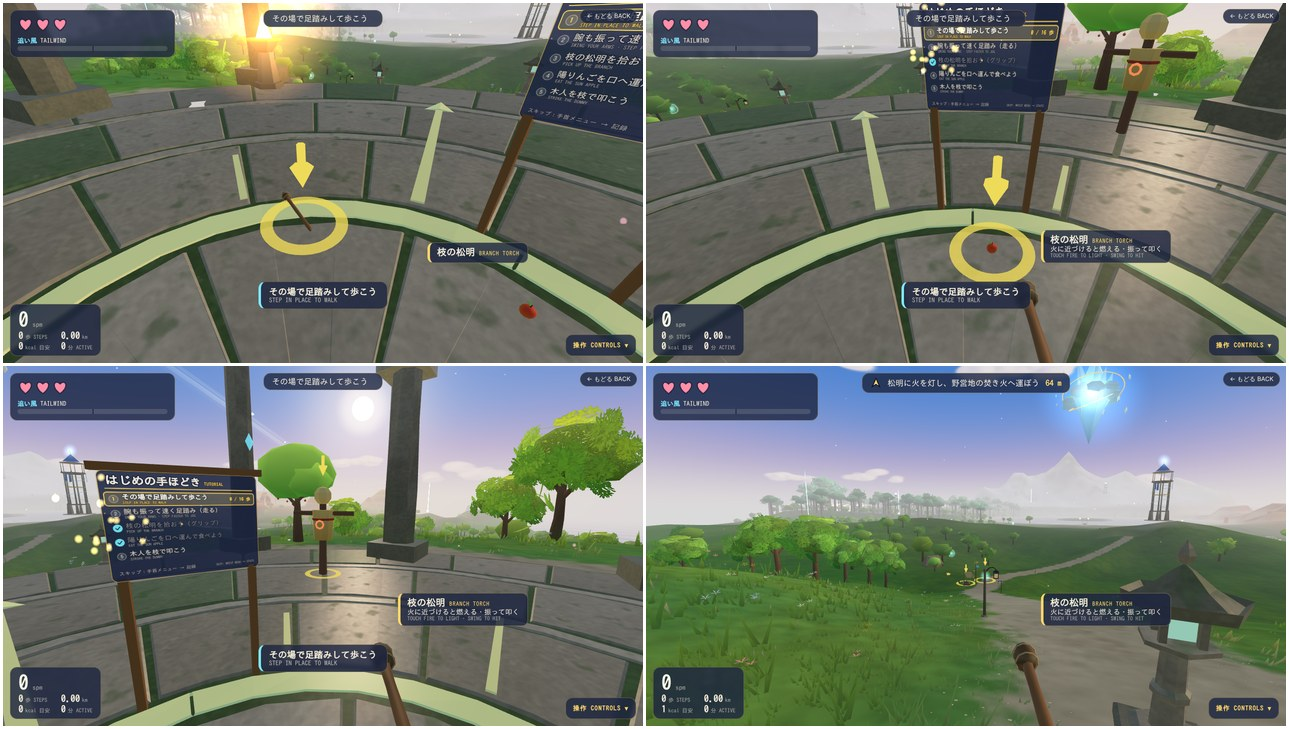
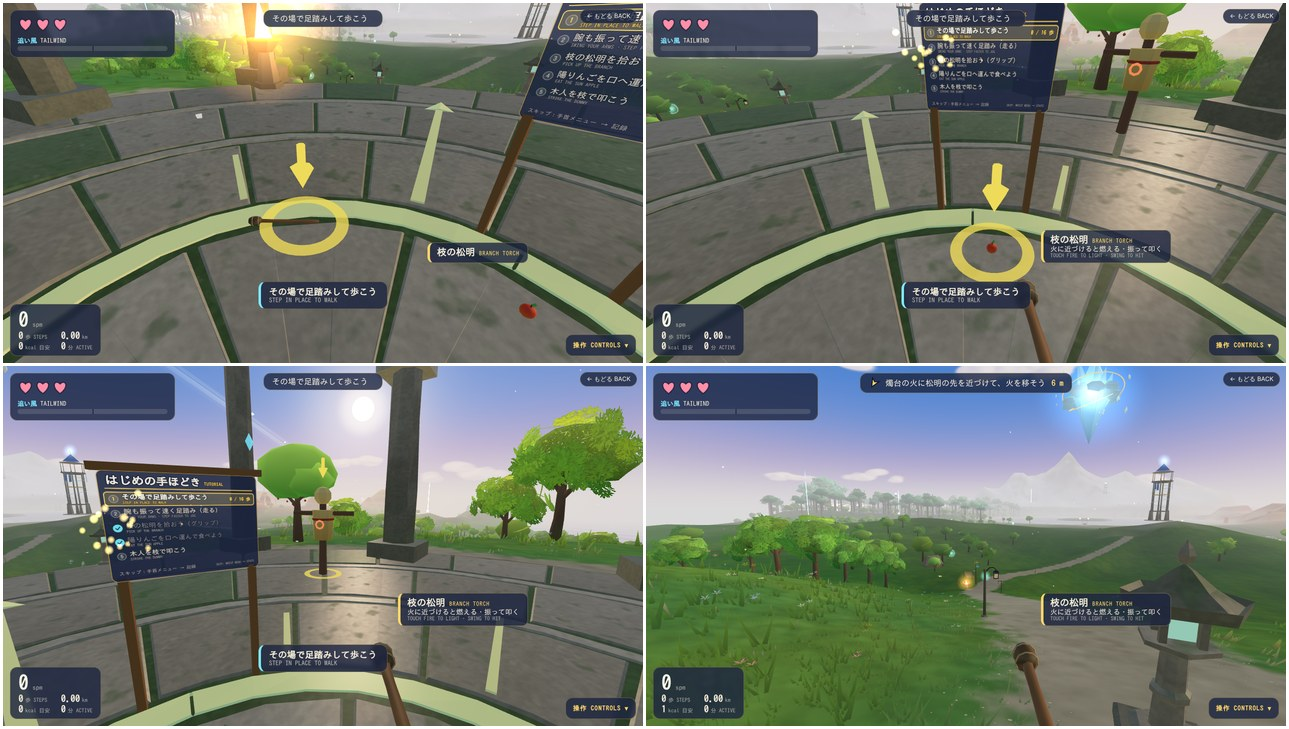
aetherwalk: checkpoint of campfire guidance and pedestal placement (in progress)
Claude-Session: https://claude.ai/code/session_01H98kDx4BzyB7H16AujXYj1

diff --git a/aetherwalk/js/game/quest.js b/aetherwalk/js/game/quest.js
@@ -20,11 +20,24 @@ export const TUT = [
 ];
 // stage 1, shown on the tutorial board as the start of the main quest
 export const MAIN1 = [
-  { id: 'm_light', text: '石舞台の燭台で松明に火を移す', en: 'LIGHT THE BRANCH AT THE BRAZIER' },
+  { id: 'm_light', text: '燭台の火を松明に移す', en: 'LIGHT THE BRANCH AT A BRAZIER' },
   { id: 'm_camp', text: '野営地の焚き火に火を灯す', en: 'LIGHT THE CAMPFIRE' },
   { id: 'm_sword', text: '台座の剣を握って手に取る', en: 'GRIP THE SWORD ON THE PEDESTAL' },
 ];
 const REGIONS = ['meadow', 'forest', 'canyon', 'peaks'];
+// stage 1, lighting the camp: what to do right now (board, objective line, toast and the gold markers)
+export const CAMP_HINT = {
+  torch: ['枝の松明を持とう', 'PICK UP THE BRANCH TORCH'],
+  draw: ['枝の松明を手に持とう（ホルスターから取り出す）', 'TAKE THE BRANCH TORCH OUT OF ITS HOLSTER'],
+  drawLit: ['燃えている松明をホルスターから取り出そう', 'DRAW THE BURNING TORCH FROM ITS HOLSTER'],
+  light: ['燭台の火に松明の先を近づけて、火を移そう', 'HOLD THE TORCH TIP IN THE BRAZIER FLAME'],
+  carry: ['火のついた松明を野営地の焚き火へ運ぼう', 'CARRY THE LIT TORCH TO THE CAMPFIRE'],
+  touch: ['薪に松明を近づけて火をつけよう', 'TOUCH THE FIREWOOD WITH THE FLAME'],
+  relight: ['松明の火が消えている — 燭台で付け直そう', 'YOUR TORCH IS OUT · RELIGHT IT AT A BRAZIER'],
+  sword: ['台座の剣を握って手に取ろう', 'GRIP THE SWORD ON THE PEDESTAL'],
+};
+const OUT_WHY = { burnout: ['燃え尽きた', 'BURNED OUT'], water: ['水で消えた', 'DOUSED BY WATER'], wind: ['風で消えた', 'BLOWN OUT BY THE WIND'], stowed: ['バッグにしまうと消える（ホルスターなら燃えたまま）', 'THE BAG PUTS IT OUT · A HOLSTER KEEPS IT LIT'] };
+const CAMP_NEAR = 4, CAMP_NEAR_OUT = 5, CAMP_AT = 10;   // m: the touch phase (with hysteresis), "at the campfire"
 
 export function createQuest(ctx, G) {
   const _p = new THREE.Vector3(), _a = new THREE.Vector3(), _b = new THREE.Vector3();
@@ -35,6 +48,10 @@ export function createQuest(ctx, G) {
   const targets = [0, 1, 2, 3].map(() => ({ x: 0, y: 0, z: 0, primary: false, kind: '' }));
   const _t = new THREE.Vector3();
   let startBrazier;
+  // stage-1 phase: a torch / draw / light / carry / touch / relight / sword, or '' (not stage 1)
+  const campHint = { phase: '', text: '', en: '', dist: 0, fire: null };
+  let campNear = false, campPhasePrev = '', campLitT = -1;
+  let torchBurning = false;   // the player's torch is lit somewhere (in a hand, a holster, or put down nearby)
   const Q = {
     stage: 0, objective: null,
     towers: { meadow: false, forest: false, canyon: false, peaks: false },
@@ -106,12 +123,14 @@ export function createQuest(ctx, G) {
     mainDone(i) {
       const camp = G.checkpoints && G.checkpoints.byId('camp_meadow');
       const lit = !!(camp && camp.lit);
-      if (i === 0) return lit || torchLit();
+      if (i === 0) return lit || torchLit() || torchBurning;
       if (i === 1) return lit;
       return G.inventory.has('sword');
     },
     torchLit: () => torchLit(),
     guideTargets,
+    /** stage-1 "what now" for the board: { phase, text, en, dist (m to the campfire), fire (brazier) } */
+    get campHint() { return campHint; },
     serialize() {
       return { stage: Q.stage, towers: { ...Q.towers }, shrines: JSON.parse(JSON.stringify(Q.shrines)), seeds: Q.seeds.slice(),
         chests: Q.chests.slice(), props: JSON.parse(JSON.stringify(Q.props)), flags: { ...Q.flags, killed: { ...(G.enemies ? G.enemies.killedForever : {}) }, gather: G.pickups ? G.pickups.serializeGather() : {} } };
@@ -180,10 +199,12 @@ export function createQuest(ctx, G) {
       }
       case 1: {
         const c = L('camp_meadow');
-        const camp = G.checkpoints && G.checkpoints.byId('camp_meadow');
+        const ph = updateCampHint();
         const ped = G.pickups && G.pickups.pedestalChest();
-        if (camp && camp.lit && ped && !G.inventory.has('sword')) setObjective('pedestal', '台座の剣を握って手に取ろう', ped.x, ped.z);
-        else setObjective('camp_meadow', '松明に火を灯し、野営地の焚き火へ運ぼう', c ? c.x : _p.x, c ? c.z : _p.z);
+        if (ph === 'sword' && ped) setObjective('pedestal', campHint.text, ped.x, ped.z);
+        else if ((ph === 'light' || ph === 'relight' || ph === 'draw') && campHint.fire) setObjective('camp_' + ph, campHint.text, campHint.fire.x, campHint.fire.z);
+        else if (ph === 'torch' && tutItems.torch && onGround(tutItems.torch)) setObjective('camp_torch', campHint.text, tutItems.torch.pos.x, tutItems.torch.pos.z);
+        else setObjective('camp_' + (ph || 'meadow'), campHint.text || '松明に火を灯し、野営地の焚き火へ運ぼう', c ? c.x : _p.x, c ? c.z : _p.z);
         break;
       }
       case 2: { const t = L('tower_meadow'); setObjective('tower_meadow', '風見の鐘塔の頂上で鐘を鳴らそう', t ? t.x : _p.x, t ? t.z : _p.z); break; }
@@ -251,6 +272,56 @@ export function createQuest(ctx, G) {
     tutClosed = true;
     emit(ctx, 'tutorial:done', { skipped: !!skipped });
   }
+  function heldTorch() {
+    const h = ctx.items && ctx.items.held;
+    if (!h) return null;
+    for (const k of ['right', 'left']) { const i = h[k]; if (i && i.id === 'torch') return i; }
+    return null;
+  }
+  /** a torch lying in the world to point at (the lesson's branch first, else the nearest within 60 m) */
+  function torchOnGround() {
+    if (onGround(tutItems.torch)) return tutItems.torch;
+    const w = ctx.items && ctx.items.worldItems;
+    if (!w) return null;
+    let best = null, bd = 60;
+    for (const i of w) { if (i.id !== 'torch') continue; const d = Math.hypot(i.pos.x - _p.x, i.pos.z - _p.z); if (d < bd) { bd = d; best = i; } }
+    return best;
+  }
+  function campFire(camp, out) {
+    anchorOf(camp.prop, 'fire', out);
+    if (!camp.prop) out.set(camp.x, heightAt(ctx, camp.x, camp.z) + 0.5, camp.z);
+    return out;
+  }
+  /** work out the stage-1 phase into campHint (and return it) — called from refreshObjective (≈2 Hz) */
+  function updateCampHint() {
+    const camp = G.checkpoints && G.checkpoints.byId('camp_meadow');
+    let ph = '';
+    campHint.fire = null; campHint.dist = 0;
+    if (Q.stage === 1 && camp) {
+      playerPos(ctx, _p);
+      const d = Math.hypot(_p.x - camp.x, _p.z - camp.z);
+      campHint.dist = d;
+      if (camp.lit) { campNear = false; ph = G.inventory.has('sword') ? '' : 'sword'; }
+      else {
+        const t = heldTorch();
+        if (t && t.state && t.state.lit) { campNear = d < (campNear ? CAMP_NEAR_OUT : CAMP_NEAR); ph = campNear ? 'touch' : 'carry'; }
+        else {
+          campNear = false;
+          const g = torchOnGround();
+          if (g && g.state && g.state.lit && Math.hypot(g.pos.x - _p.x, g.pos.z - _p.z) < 15) ph = 'torch';   // put down still burning: pick it up
+          else if (!t && torchBurning && G.inventory.has('torch')) ph = 'drawLit';                       // burning in its holster
+          else if (d < CAMP_AT) ph = 'relight';
+          else if (t) ph = 'light';
+          else ph = g || !G.inventory.has('torch') ? 'torch' : 'draw';
+          if (ph === 'light' || ph === 'relight' || ph === 'draw') campHint.fire = G.checkpoints.nearestFire ? G.checkpoints.nearestFire(_p.x, _p.z) : null;
+        }
+      }
+    }
+    campHint.phase = ph;
+    const h = CAMP_HINT[ph];
+    campHint.text = h ? h[0] : ''; campHint.en = h ? h[1] : '';
+    return ph;
+  }
   function torchLit() {
     const h = ctx.items && ctx.items.held;
     if (!h) return false;
@@ -276,24 +347,26 @@ export function createQuest(ctx, G) {
         if (d) n = put(n, d.c.x, d.c.y + 0.5, d.c.z, true, 'dummy');
       }
     } else if (Q.stage === 1) {
+      // one marker per phase: the branch, the burning brazier, the campfire (a ring at the bowl up close), the pedestal
       const camp = G.checkpoints && G.checkpoints.byId('camp_meadow');
-      const lit = !!(camp && camp.lit);
-      let primaryUsed = false;
-      if (!lit && !torchLit()) {
-        if (startBrazier === undefined) startBrazier = (G.checkpoints && G.checkpoints.braziers.find((q) => q.id === 'brazier_start')) || null;
-        const b = startBrazier && startBrazier.lit ? startBrazier : null;
-        if (b) { n = put(n, b.firePos.x, b.firePos.y + 0.25, b.firePos.z, true, 'fire'); primaryUsed = true; }
-      }
-      if (camp && !lit) {
-        anchorOf(camp.prop, 'fire', _t);
-        if (!camp.prop) _t.set(camp.x, heightAt(ctx, camp.x, camp.z) + 0.5, camp.z);
-        n = put(n, _t.x, _t.y + 0.4, _t.z, !primaryUsed, 'fire');
-      }
-      const ped = G.pickups && G.pickups.pedestalChest();
-      if (ped && !G.inventory.has('sword') && !Q.chests.includes(ped.id)) {
-        anchorOf(ped.prop, 'item', _t);
-        if (!ped.prop) _t.set(ped.x, heightAt(ctx, ped.x, ped.z) + 1.2, ped.z);
-        n = put(n, ped.prop ? ped.prop.x : _t.x, _t.y + 0.3, ped.prop ? ped.prop.z : _t.z, n === 0, 'pedestal');
+      const ph = campHint.phase;
+      if (ph === 'torch') {
+        playerPos(ctx, _p);
+        const t = torchOnGround();
+        if (t) n = put(n, t.pos.x, t.pos.y, t.pos.z, true, 'item');
+      } else if ((ph === 'light' || ph === 'relight' || ph === 'draw') && campHint.fire) {
+        const b = campHint.fire;
+        n = put(n, b.firePos.x, b.firePos.y + 0.25, b.firePos.z, true, 'fire');
+      } else if ((ph === 'carry' || ph === 'touch' || ph === 'drawLit') && camp) {
+        campFire(camp, _t);
+        n = ph === 'touch' ? put(n, _t.x, _t.y + 0.3, _t.z, true, 'bowl') : put(n, _t.x, _t.y + 0.4, _t.z, true, 'fire');
+      } else if (ph === 'sword') {
+        const ped = G.pickups && G.pickups.pedestalChest();
+        if (ped && !Q.chests.includes(ped.id)) {
+          anchorOf(ped.prop, 'item', _t);
+          if (!ped.prop) _t.set(ped.x, heightAt(ctx, ped.x, ped.z) + 1.2, ped.z);
+          n = put(n, ped.prop ? ped.prop.x : _t.x, _t.y + 0.3, ped.prop ? ped.prop.z : _t.z, true, 'pedestal');
+        }
       }
     }
     for (let i = 0; i < n; i++) out.push(targets[i]);
@@ -347,6 +420,17 @@ export function createQuest(ctx, G) {
         else if ((camp && camp.lit && !ped) || (!camp && !ped)) { G.inventory.add('sword', 1); Q.setStage(2); }
       }
       refreshObjective();
+      // stage 1: say the new step when it changes (the board and markers follow on their own)
+      const ph = Q.stage === 1 ? campHint.phase : '';
+      if (ph !== campPhasePrev) {
+        if (campPhasePrev && ph && ph !== 'sword' && campLitT < 0) toast(ctx, campHint.text, campHint.en, 'quest', 4500, 'camp');
+        campPhasePrev = ph;
+      }
+    }
+    // after the campfire's title: the next step (the sword)
+    if (campLitT >= 0) {
+      campLitT -= dt;
+      if (campLitT < 0 && Q.stage === 1 && !G.inventory.has('sword')) toast(ctx, CAMP_HINT.sword[0], CAMP_HINT.sword[1], 'quest', 5000, 'camp');
     }
   }
 
@@ -362,7 +446,39 @@ export function createQuest(ctx, G) {
   ctx.events?.on?.('item:consume', (e) => { if (Q.stage === 0 && e && e.itemId && e.itemId.startsWith('apple')) { Q.tut.apple = true; tutAdvance(); } });
   ctx.events?.on?.('dummy:hit', () => { if (Q.stage === 0) { Q.tut.dummy = true; tutAdvance(); } });
   ctx.events?.on?.('hit', (e) => { if (Q.stage === 0 && e && e.targetKind === 'dummy') { Q.tut.dummy = true; tutAdvance(); } });
-  ctx.events?.on?.('fire:lit', (e) => { if (e && e.id === 'camp_meadow' && Q.stage <= 1) { if (Q.stage === 0) { closeTutorial(true); Q.setStage(1); } G.inventory.add('flask', 1); refreshObjective(); } });
+  ctx.events?.on?.('fire:lit', (e) => {
+    if (!e || e.id !== 'camp_meadow' || Q.stage > 1) return;
+    if (Q.stage === 0) { closeTutorial(true); Q.setStage(1); }
+    emit(ctx, 'ui:title', { text: '焚き火が灯った', sub: 'CAMPFIRE LIT · 復活地点' });
+    G.inventory.add('flask', 1);                // its own toast: 水筒 を手に入れた
+    campLitT = 2.6;                             // then: the sword on the pedestal
+    campPhasePrev = 'sword';
+    refreshObjective();
+  });
+  /** is this torch event about the player's own torch? (in a hand, a holster (uid null), or put down within 8 m) */
+  function playersTorch(e) {
+    if (e.uid == null) return true;
+    const it = ctx.items;
+    let inst = null;
+    if (it && it.held) for (const k of ['left', 'right']) if (it.held[k] && it.held[k].uid === e.uid) inst = it.held[k];
+    if (!inst && it && it.worldItems) inst = it.worldItems.find((i) => i.uid === e.uid) || null;
+    if (!inst) return false;
+    if (inst.heldBy) return true;
+    playerPos(ctx, _p);
+    return Math.hypot(inst.pos.x - _p.x, inst.pos.z - _p.z) <= 8;
+  }
+  ctx.events?.on?.('item:ignite', (e) => { if (e && e.itemId === 'torch' && playersTorch(e)) { torchBurning = true; lastObjKey = ''; objT = 0; } });
+  // a torch went out: say why (playtest: stowed it to swing the arms, arrived with a dead torch, no feedback)
+  ctx.events?.on?.('item:extinguish', (e) => {
+    if (!e || e.itemId !== 'torch') return;
+    if (!playersTorch(e)) return;
+    torchBurning = false;
+    const w = OUT_WHY[e.why === 'stow' || !e.why ? 'stowed' : e.why] || ['火が消えた', 'WENT OUT'];
+    const camp = G.checkpoints && G.checkpoints.byId('camp_meadow');
+    const lesson = Q.stage === 1 && camp && !camp.lit;
+    toast(ctx, `松明の火が消えた — ${w[0]}`, `TORCH OUT · ${w[1]}` + (lesson ? ' · RELIGHT AT A BRAZIER' : ''), 'warn', 4500, 'torchout');
+    lastObjKey = ''; objT = 0;                  // re-plan the guidance now
+  });
   // (the waybell item and the X button draw their own ribbon in items/waybell.js; guide() serves the wrist menu)
 
   return Q;

diff --git a/aetherwalk/js/game/checkpoints.js b/aetherwalk/js/game/checkpoints.js
@@ -2,6 +2,10 @@
 import * as THREE from 'three';
 import { heightAt, fx, flash, emit, toast, spawnList, findProp, propsOf, setPropState, anchorOf, playerPos, landmark } from './util.js';
 
+// a fire bowl lights when a flame comes within TOUCH_R of it, or when you stand within CATCH_D holding a lit
+// torch for CATCH_T seconds (playtest: "ran there but it never lit")
+const TOUCH_R = 1.2, CATCH_D = 2.2, CATCH_T = 0.8;
+
 export function createCheckpoints(ctx, G) {
   const lights = [];        // waylights
   const braziers = [];      // generic braziers (shrines may reserve some)
@@ -17,7 +21,7 @@ export function createCheckpoints(ctx, G) {
       for (const w of spawnList(ctx, 'waylights')) {
         const prop = findProp(ctx, 'waylight', w.id, w.x, w.z, 6);
         const lm = landmark(ctx, w.id);
-        lights.push({ id: w.id, x: w.x, z: w.z, prop, lit: false, zone: null, cook: null, nearT: 0,
+        lights.push({ id: w.id, x: w.x, z: w.z, prop, lit: false, zone: null, cook: null, nearT: 0, catchT: 0,
           name: (lm && lm.name) || '風見の灯', firePos: new THREE.Vector3(), cookPos: new THREE.Vector3() });
       }
       braziers.length = 0;
@@ -45,7 +49,8 @@ export function createCheckpoints(ctx, G) {
         emit(ctx, 'fire:lit', { id: entry.id, pos: entry.firePos });
         fx(ctx, 'ember', entry.firePos, { count: 30, speed: 2 });
         flash(ctx, entry.firePos, { color: 0xffb347, size: 3, life: 0.5 });
-        toast(ctx, `${entry.name}に火が灯った`, 'WAYLIGHT LIT · 復活地点', 'quest', 3500);
+        const lesson = entry.id === 'camp_meadow' && G.quest && G.quest.stage <= 1;
+        if (!lesson) toast(ctx, `${entry.name}に火が灯った`, 'WAYLIGHT LIT · 復活地点', 'quest', 3500);
         C.setCheckpoint(entry.id);
       }
     },
@@ -69,6 +74,16 @@ export function createCheckpoints(ctx, G) {
     /** braziers that no shrine drives burn from the start: fire for torches and arrows around the island */
     lightFree() { for (const b of braziers) if (!b.reserved && !b.lit) C.lightBrazier(b, true); },
     byId(id) { return lights.find((l) => l.id === id) || null; },
+    /** the nearest burning brazier to (x, z) — where a dead torch can be relit — or null */
+    nearestFire(x, z) {
+      let best = null, bd = Infinity;
+      for (const b of braziers) {
+        if (!b.lit) continue;
+        const d = Math.hypot(b.x - x, b.z - z);
+        if (d < bd) { bd = d; best = b; }
+      }
+      return best;
+    },
     nearLit(maxD = 5) {
       playerPos(ctx, _p);
       let best = null, bd = maxD;
@@ -138,7 +153,14 @@ export function createCheckpoints(ctx, G) {
         anchorOf(l.prop, 'fire', _a);
         if (!l.prop) _a.set(l.x, heightAt(ctx, l.x, l.z) + 0.5, l.z);
         _a.y += 0.3;
-        if (foreignFire(_a, 0.75)) { C.light(l); continue; }
+        if (foreignFire(_a, TOUCH_R)) { l.catchT = 0; C.light(l); continue; }
+        // standing right by it with a burning torch in either hand: it catches after a moment (crackling)
+        if (d < CATCH_D && G.quest && G.quest.torchLit()) {
+          if (l.catchT === 0) emit(ctx, 'fire:catching', { id: l.id, pos: _a.clone() });
+          l.catchT += 0.2;
+          fx(ctx, 'ember', _a, { count: 3, speed: 0.8 });
+          if (l.catchT >= CATCH_T - 1e-6) { l.catchT = 0; C.light(l); continue; }
+        } else l.catchT = 0;
         // the other camps catch the wind when you stand by them (the first one is the torch lesson)
         const tutorial = l.id === 'camp_meadow' && stage <= 1;
         if (!tutorial && d < 3.2) { l.nearT += 0.2; if (l.nearT > 1.5) C.light(l); }

diff --git a/aetherwalk/js/ui/tutorial.js b/aetherwalk/js/ui/tutorial.js
@@ -146,7 +146,10 @@ export function createTutorial(ctx, S, ui) {
     frame('旅のはじまり', 'MAIN QUEST');
     let cur = 0;
     while (cur < 3 && Q.mainDone(cur)) cur++;
-    text(g, '野営地の焚き火に火を灯し、台座の剣を手に入れよう', 48, 174, { size: 38, weight: 700, color: C.gold, maxW: W - 96 });
+    // the step to do right now (phase-aware: take / light / carry (with the distance) / touch / relight / sword)
+    const h = Q.campHint;
+    const now = h && h.text ? h.text + (h.phase === 'carry' ? `（あと ${Math.max(1, Math.round(h.dist))} m）` : '') : '野営地の焚き火に火を灯し、台座の剣を手に入れよう';
+    text(g, '▶ ' + now, 48, 174, { size: 38, weight: 800, color: C.gold, maxW: W - 96 });
     for (let i = 0; i < 3; i++) {
       const y = 200 + i * 104, isDone = Q.mainDone(i), isCur = i === cur;
       if (isCur) { roundRect(g, 30, y + 6, W - 60, 92, 18); g.fillStyle = 'rgba(255,215,106,0.2)'; g.fill(); g.lineWidth = 4; g.strokeStyle = C.gold; g.stroke(); }
@@ -164,7 +167,7 @@ export function createTutorial(ctx, S, ui) {
   }
   function signature(Q) {
     if (mode === 'tutorial') return `t|${Q.tutIndex()}|${Math.min(16, Q.tut.walk)}|${Math.min(10, Q.tut.run)}|${Q.tutDone(2)}${Q.tutDone(3)}${Q.tutDone(4)}`;
-    if (mode === 'main') return `m|${Q.mainDone(0)}${Q.mainDone(1)}${Q.mainDone(2)}`;
+    if (mode === 'main') { const h = Q.campHint || {}; return `m|${Q.mainDone(0)}${Q.mainDone(1)}${Q.mainDone(2)}|${h.phase}|${h.phase === 'carry' ? Math.round(h.dist / 5) : 0}`; }
     return '';
   }
   function setMode(m) { if (mode === m) return; pendingMode = m; fadeTo = 0; }
@@ -229,14 +232,22 @@ export function createTutorial(ctx, S, ui) {
           _s.setScalar(k);
           _m.compose(_p.set(tg.x, tg.y + 0.42 * k + bob, tg.z), _q, _s);
           arrows.setMatrixAt(n, _m);
-          // the floor under it (terrain or the stone stage / a platform)
-          let gy = tg.y - 0.15;
-          try { gy = ctx.world.groundAt ? ctx.world.groundAt(tg.x, tg.z, tg.y + 0.3) : ctx.world.heightAt(tg.x, tg.z); } catch (e) { /* stub */ }
-          if (!Number.isFinite(gy) || gy > tg.y) gy = tg.y - 0.15;
-          const rr = (tg.kind === 'fire' ? 0.75 : tg.kind === 'pedestal' ? 0.85 : 0.38) * (1 + 0.08 * Math.sin(t * 3 + n)) * Math.max(1, k * 0.6);
+          let ry, rr;
+          if (tg.kind === 'bowl') {
+            // up close with a burning torch: a pulsing ring hovering at the fire bowl's rim — "touch here"
+            ry = tg.y - 0.18;
+            rr = 0.62 * (1 + 0.14 * Math.sin(t * 6));
+          } else {
+            // the floor under it (terrain or the stone stage / a platform)
+            let gy = tg.y - 0.15;
+            try { gy = ctx.world.groundAt ? ctx.world.groundAt(tg.x, tg.z, tg.y + 0.3) : ctx.world.heightAt(tg.x, tg.z); } catch (e) { /* stub */ }
+            if (!Number.isFinite(gy) || gy > tg.y) gy = tg.y - 0.15;
+            ry = gy + 0.035;
+            rr = (tg.kind === 'fire' ? 0.75 : tg.kind === 'pedestal' ? 0.85 : 0.38) * (1 + 0.08 * Math.sin(t * 3 + n)) * Math.max(1, k * 0.6);
+          }
           _s.set(rr, 1, rr);
           _q.identity();
-          _m.compose(_h.set(tg.x, gy + 0.035, tg.z), _q, _s);
+          _m.compose(_h.set(tg.x, ry, tg.z), _q, _s);
           rings.setMatrixAt(n, _m);
           n++;
         }

diff --git a/aetherwalk/js/audio/sfx.js b/aetherwalk/js/audio/sfx.js
@@ -118,6 +118,14 @@ export function createSfx(S, buses) {
       S.burst({ dur: 0.5, type: 'lowpass', freq: 300, sweepTo: 1600, gain: 0.35, dest: d, attack: 0.05, buf: S.brown });
       for (let i = 0; i < 6; i++) S.burst({ t: ac.currentTime + 0.1 + Math.random() * 0.6, dur: 0.02, type: 'highpass', freq: 2500, gain: 0.12, dest: d });
     },
+    /** a fire bowl catching (≈0.8 s): crackles that build, under a soft rising whoosh */
+    catching({ dest }) {
+      const d = dest || buses.sfx, t0 = ac.currentTime;
+      S.burst({ dur: 0.85, type: 'lowpass', freq: 220, sweepTo: 900, gain: 0.16, dest: d, attack: 0.55, buf: S.brown });
+      for (let i = 0; i < 14; i++) { const k = i / 13; S.burst({ t: t0 + k * 0.78 + Math.random() * 0.04, dur: 0.012 + Math.random() * 0.02, type: 'highpass', freq: 1700 + Math.random() * 2400, gain: 0.04 + 0.12 * k, dest: d }); }
+    },
+    /** a torch going out: a short hiss */
+    fizzle({ dest }) { S.burst({ dur: 0.4, type: 'highpass', freq: 3200, sweepTo: 1400, gain: 0.1, dest: dest || buses.sfx, attack: 0.01 }); },
     crackle({ dest }) { S.burst({ dur: 0.015 + Math.random() * 0.02, type: 'highpass', freq: 1800 + Math.random() * 2000, gain: 0.05 + Math.random() * 0.06, dest: dest || buses.amb }); },
     eat({ dest }) { const d = dest || buses.sfx, t = ac.currentTime; for (let i = 0; i < 3; i++) S.burst({ t: t + i * 0.11, dur: 0.06, type: 'bandpass', freq: 2200, q: 1.2, gain: 0.18, dest: d }); },
     drink({ dest }) { const d = dest || buses.sfx, t = ac.currentTime; for (let i = 0; i < 3; i++) S.tone(300 + i * 40, { t: t + i * 0.16, decay: 0.1, gain: 0.12, dest: d, glideTo: 520 + i * 40, glideTime: 0.08 }); },

diff --git a/aetherwalk/js/ui/index.js b/aetherwalk/js/ui/index.js
@@ -39,6 +39,11 @@ export async function createUI(ctx) {
     const t = typeof opts === 'string' ? { sub: opts } : opts;
     // drop exact repeats waiting in the queue; keep the queue short
     if (S.toastQueue.some((q) => q.text === text) || (S.currentToast && S.currentToast.text === text)) return;
+    // a newer step of the same kind (tag) replaces the older one: the queued one is dropped, the showing one ends soon
+    if (t.tag && t.tag !== 'tut') {
+      for (let i = S.toastQueue.length - 1; i >= 0; i--) if (S.toastQueue[i].tag === t.tag) S.toastQueue.splice(i, 1);
+      if (S.currentToast && S.currentToast.tag === t.tag) S.currentToast.left = Math.min(S.currentToast.left, 300);
+    }
     S.toastQueue.push({ text, sub: t.sub || '', kind: t.kind || 'info', ms: t.ms || 3000, tag: t.tag || null });
     while (S.toastQueue.length > 4) S.toastQueue.shift();
   }

diff --git a/aetherwalk/js/audio/index.js b/aetherwalk/js/audio/index.js
@@ -159,6 +159,8 @@ export async function createAudio(ctx) {
   });
   on('item:ignite', () => play('fireLit'));
   on('fire:lit', (p) => play('fireLit', { pos: p.pos }));
+  on('fire:catching', (p) => play('catching', { pos: p.pos }));
+  on('item:extinguish', (p) => { if (p.itemId === 'torch') play('fizzle'); });
   on('tower:lift', (p) => { if (ctx.game && ctx.game.towers && ctx.game.towers.onLift) play('lift', { ratio: p.ratio || 0 }); });
   on('tower:awake', () => { play('towerBell'); setTimeout(() => play('sting:bell'), 900); });
   on('bell:ring', (p) => { if (!p.strong) play('bellSmall', { pos: p.pos }); else if (String(p.id).startsWith('seed')) play('bellSmall', { pos: p.pos }); else play('towerBell'); });
